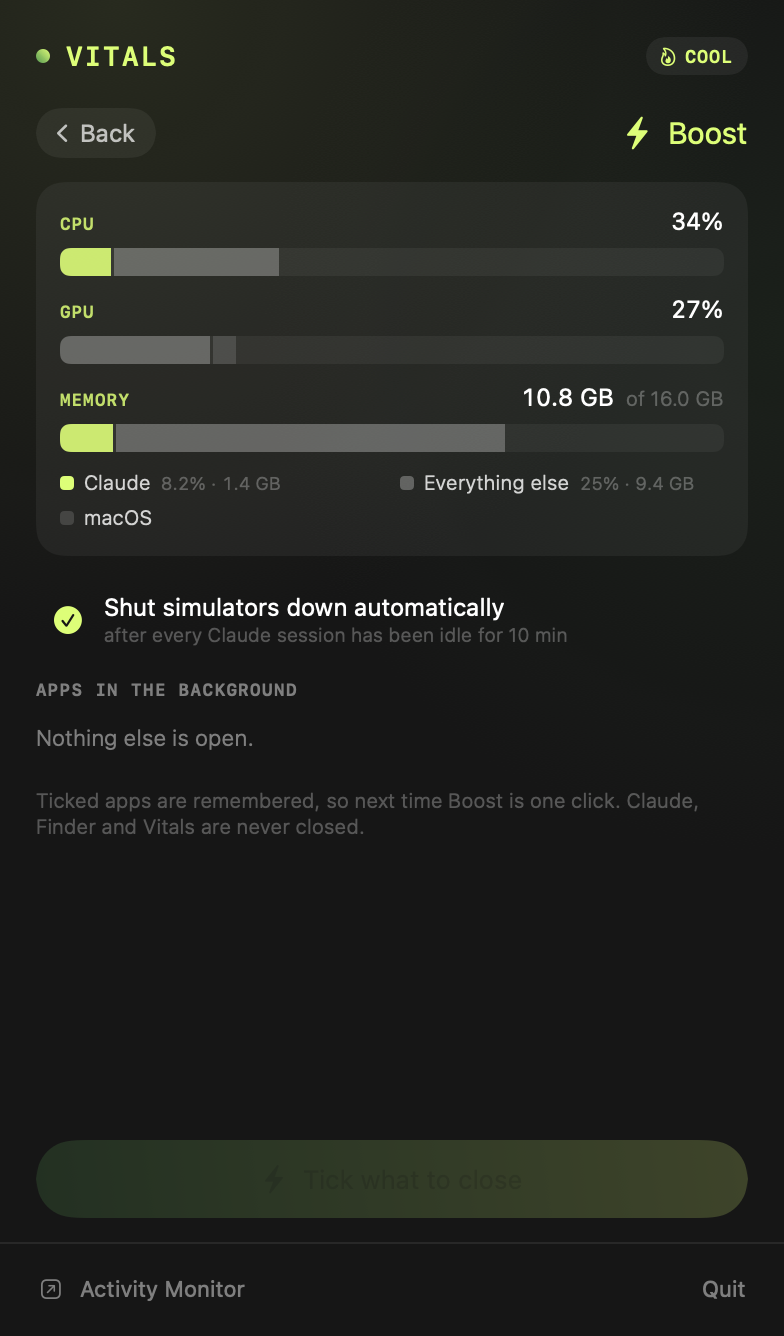
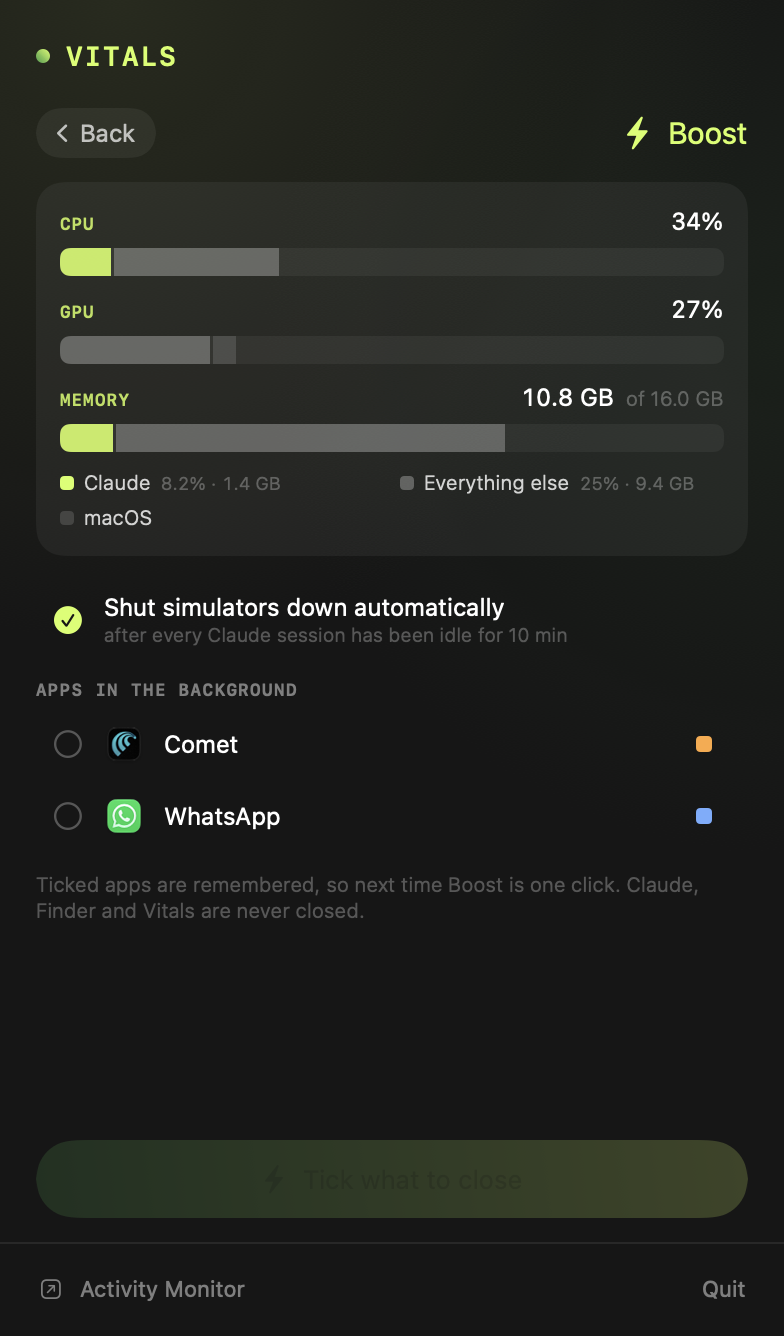
Simpler UI: heat chip only when warm, no load lines, no AI summary card, one General card in Settings, quieter history header

diff --git a/Sources/Vitals/Panel.swift b/Sources/Vitals/Panel.swift
@@ -91,7 +91,10 @@ struct PanelView: View {
                     .help("\(awake.duration): \(awake.reason)")
                     .clickable(radius: 12) { withAnimation { detail = nil; boosting = false; tab = .bar } }
             }
-            Chip(text: thermalText, color: thermalColor, symbol: "flame").clickable(radius: 12) { open(.temp) }
+            if monitor.system.thermalState != .nominal {
+                // Only worth a chip when it isn't cool.
+                Chip(text: thermalText, color: thermalColor, symbol: "flame").clickable(radius: 12) { open(.temp) }
+            }
             if !boosting {
                 Button {
                     withAnimation(.spring(response: 0.35, dampingFraction: 0.88)) { detail = nil; boosting = true }
@@ -343,10 +346,9 @@ struct PanelView: View {
                 ScrollView(.vertical, showsIndicators: false) {
                     let apps = displayedApps
                     let ram = Double(max(1, monitor.system.memory.total))
-                    let top = max(apps.map { $0.load(ram: ram) }.max() ?? 1, 0.0001)
                     VStack(spacing: 2) {
                         ForEach(apps) { app in
-                            AppRow(app: app, share: app.load(ram: ram) / top, ram: ram, refresh: refresh)
+                            AppRow(app: app, ram: ram, refresh: refresh)
                         }
                     }
                     .padding(.horizontal, 10)
@@ -398,9 +400,6 @@ struct PanelView: View {
             } else {
                 ScrollView(.vertical, showsIndicators: false) {
                     VStack(spacing: 6) {
-                        if !sessions.isEmpty {
-                            SessionSummary(sessions: sessions).clickable(radius: 14) { open(.claude) }
-                        }
                         ForEach(AITool.allCases, id: \.self) { tool in
                             let group = sessions.filter { $0.tool == tool }
                             if !group.isEmpty {
@@ -413,9 +412,8 @@ struct PanelView: View {
                         if !apps.isEmpty {
                             sectionTitle("AI APPS", detail: "\(apps.count) open")
                             let ram = Double(max(1, monitor.system.memory.total))
-                            let top = max(apps.map { $0.load(ram: ram) }.max() ?? 1, 0.0001)
                             ForEach(apps) { app in
-                                AppRow(app: app, share: app.load(ram: ram) / top, ram: ram, refresh: refresh)
+                                AppRow(app: app, ram: ram, refresh: refresh)
                             }
                         }
                     }
@@ -825,7 +823,6 @@ extension AppUsage {
 
 struct AppRow: View {
     var app: AppUsage
-    var share: Double
     var ram: Double
     var refresh: () -> Void = {}
     @State private var hovering = false
@@ -890,19 +887,8 @@ struct AppRow: View {
         .padding(.horizontal, 8)
         .padding(.vertical, 6)
         .frame(minHeight: 40)
-        .overlay(alignment: .bottomLeading) {
-            // How much of the load this app is, relative to the heaviest: a slim line under the row.
-            GeometryReader { geo in
-                Capsule()
-                    .fill(LinearGradient(colors: [Theme.green.opacity(0.7), Theme.lime.opacity(0.9)], startPoint: .leading, endPoint: .trailing))
-                    .frame(width: max(2, (geo.size.width - 48) * min(1, share)), height: 2)
-                    .offset(x: 40, y: geo.size.height - 3)
-                    .opacity(0.55)
-            }
-        }
         .background(RoundedRectangle(cornerRadius: 9, style: .continuous).fill(Color.white.opacity(hovering ? 0.06 : 0.025)))
         .onHover { hovering = $0 }
-        .animation(.easeOut(duration: 0.4), value: share)
     }
 
     /// A value in a column: dim when it's nothing, white normally, orange then red as it gets heavy.
@@ -912,32 +898,6 @@ struct AppRow: View {
             .foregroundStyle(heat >= 1 ? Theme.red : heat >= 0.45 ? Theme.orange : heat < 0.02 ? Theme.faint : .white.opacity(0.88))
             .lineLimit(1)
             .frame(width: width, alignment: .trailing)
-    }
-}
-
-struct SessionSummary: View {
-    var sessions: [ClaudeSession]
-    var body: some View {
-        let busy = sessions.filter(\.isBusy).count
-        let cpu = sessions.reduce(0) { $0 + $1.cpu }
-        let memory = sessions.reduce(UInt64(0)) { $0 + $1.memory }
-        let tasks = sessions.reduce(0) { $0 + $1.tasks.filter { !$0.isBackground }.count }
-        HStack(spacing: 0) {
-            stat("\(busy)/\(sessions.count)", "WORKING")
-            stat("\(tasks)", "TASKS")
-            stat(String(format: "%.0f%%", cpu), "CPU")
-            stat(Fmt.bytes(memory), "MEMORY")
-        }
-        .padding(.vertical, 10)
-        .background(RoundedRectangle(cornerRadius: 14, style: .continuous).fill(Theme.card))
-    }
-
-    private func stat(_ value: String, _ label: String) -> some View {
-        VStack(spacing: 2) {
-            Text(value).font(Theme.light(16)).monospacedDigit().foregroundStyle(.white)
-            Text(label).font(Theme.caps(7.5)).kerning(0.6).foregroundStyle(Theme.lime.opacity(0.85))
-        }
-        .frame(maxWidth: .infinity)
     }
 }
 

diff --git a/Sources/Vitals/BarSettings.swift b/Sources/Vitals/BarSettings.swift
@@ -2,7 +2,7 @@ import AppKit
 import SwiftUI
 import UniformTypeIdentifiers
 
-/// Pick what the menu bar shows and how often it updates.
+/// Settings: keep awake, what the menu bar shows, and a few general options.
 struct BarSettings: View {
     @ObservedObject var monitor: Monitor
     @ObservedObject var prefs: Prefs
@@ -20,21 +20,20 @@ struct BarSettings: View {
                     }
                     .background(RoundedRectangle(cornerRadius: 14, style: .continuous).fill(Theme.card))
                 }
-                section("UPDATE EVERY") {
-                    Segments(options: [(1.0, "1 s"), (2.0, "2 s"), (5.0, "5 s")], selection: $prefs.interval)
-                }
-                LoginRow()
-                ExportRow(monitor: monitor)
-                HStack {
-                    VStack(alignment: .leading, spacing: 2) {
-                        Text("Warning colors").font(Theme.regular(12)).foregroundStyle(.white)
-                        Text("Orange or red when hot, full or low").font(Theme.light(10)).foregroundStyle(Theme.faint)
+                section("GENERAL") {
+                    VStack(spacing: 0) {
+                        LoginRow()
+                        divider
+                        row("Warning colors", "Orange or red when hot, full or low") { LimeSwitch(isOn: $prefs.colorAlerts) }
+                        divider
+                        row("Update every", "How often the numbers refresh") {
+                            Segments(options: [(1.0, "1 s"), (2.0, "2 s"), (5.0, "5 s")], selection: $prefs.interval).frame(width: 132)
+                        }
+                        divider
+                        ExportRow(monitor: monitor)
                     }
-                    Spacer()
-                    LimeSwitch(isOn: $prefs.colorAlerts)
+                    .background(RoundedRectangle(cornerRadius: 14, style: .continuous).fill(Theme.card))
                 }
-                .padding(12)
-                .background(RoundedRectangle(cornerRadius: 14, style: .continuous).fill(Theme.card))
             }
             .padding(.horizontal, 14)
             .padding(.bottom, 8)
@@ -45,6 +44,20 @@ struct BarSettings: View {
     private var orderedMetrics: [Metric] {
         (prefs.bar + Metric.allCases.filter { !prefs.bar.contains($0) })
             .filter { $0 != .battery || monitor.system.power.hasBattery }   // desktop Macs have none
+    }
+
+    private var divider: some View { Rectangle().fill(Theme.hairline).frame(height: 1).padding(.leading, 12) }
+
+    private func row<Trailing: View>(_ title: String, _ detail: String, @ViewBuilder trailing: () -> Trailing) -> some View {
+        HStack {
+            VStack(alignment: .leading, spacing: 2) {
+                Text(title).font(Theme.regular(12)).foregroundStyle(.white)
+                Text(detail).font(Theme.light(10)).foregroundStyle(Theme.faint)
+            }
+            Spacer()
+            trailing()
+        }
+        .padding(.horizontal, 12).padding(.vertical, 10)
     }
 
     private func section<Content: View>(_ title: String, @ViewBuilder content: () -> Content) -> some View {
@@ -170,8 +183,7 @@ private struct LoginRow: View {
                 }
             }))
         }
-        .padding(12)
-        .background(RoundedRectangle(cornerRadius: 14, style: .continuous).fill(Theme.card))
+        .padding(.horizontal, 12).padding(.vertical, 10)
         .onAppear {
             DispatchQueue.global(qos: .userInitiated).async {
                 let now = LoginItem.isOn
@@ -188,15 +200,14 @@ private struct ExportRow: View {
     var body: some View {
         HStack {
             VStack(alignment: .leading, spacing: 2) {
-                Text("Export all history").font(Theme.regular(12)).foregroundStyle(.white)
-                Text(saved ?? "CSV for Numbers, Excel or Sheets: every hour, minute and sample kept")
+                Text("Export history").font(Theme.regular(12)).foregroundStyle(.white)
+                Text(saved ?? "Everything Vitals has kept, as a CSV file")
                     .font(Theme.light(10)).foregroundStyle(saved == nil ? Theme.faint : Theme.lime.opacity(0.85)).lineLimit(1)
             }
             Spacer()
             QuietButton(title: "Export…", symbol: "square.and.arrow.up", size: 11) { export() }
         }
-        .padding(12)
-        .background(RoundedRectangle(cornerRadius: 14, style: .continuous).fill(Theme.card))
+        .padding(.horizontal, 12).padding(.vertical, 10)
     }
 
     private func export() {

diff --git a/docs/live.js b/docs/live.js
@@ -356,6 +356,7 @@
         q(`[data-ms="${k}"]`).setAttribute('d', sparkPath(minis[k][1], 100, 12));
       }
       q('[data-thermal]').textContent = sim.temp > 85 ? 'HOT' : sim.temp > 70 ? 'WARM' : 'COOL';
+      q('[data-thermal]').parentElement.style.display = sim.temp > 70 ? '' : 'none';   // like the app: only when it isn't cool
       const charging = this.fullOnce || this.limit === 100;
       q('[data-held]').textContent = charging ? (this.fullOnce ? 'charging to 100%' : 'charges to 100%') : 'held at ' + this.limit + '%';
       // tabs
@@ -428,7 +429,6 @@
       const sig = sessions.map(s => s.id + s.stopped + s.tasks.map(t => t.cmd).join()).join('|');
       const scroll = box.scrollTop;
       box.innerHTML = `
-        <div class="vp-sum">${[[working + '/' + sessions.length, 'Working'], [tasks, 'Tasks'], [Math.round(cpu) + '%', 'CPU'], [gbs(sessions.reduce((n, s) => n + s.mem, 0)), 'Memory']].map(([v, l]) => `<div><b class="num">${v}</b><span class="caps">${l}</span></div>`).join('')}</div>
         ${groups.map(g => { const list = sessions.filter(s => s.tool === g); return `<div class="vp-sect"><span class="caps" style="color:rgba(213,255,95,.8)">${esc(g)}</span><span>${list.filter(busy).length} of ${list.length} working</span></div>${list.map(card).join('')}`; }).join('')}
         <div class="vp-sect"><span class="caps" style="color:rgba(213,255,95,.8)">AI apps</span><span>2 open</span></div>
         ${sim.apps.filter(a => a.aiApp).map(a => `<div class="vp-card2" style="display:flex;align-items:center;gap:10px"><div class="ic" style="width:20px;height:20px;border-radius:6px;display:grid;place-items:center;font-size:10px;background:linear-gradient(160deg,${a.ic[0]},${a.ic[1]})">${a.g}</div><b style="flex:1;font-weight:400">${a.name}</b><span class="met num">${pct(a.cpu)}&nbsp;&nbsp;${gbs(a.mem)}</span></div>`).join('')}`;

diff --git a/Sources/Vitals/DetailView.swift b/Sources/Vitals/DetailView.swift
@@ -148,7 +148,7 @@ struct DetailView: View {
             Spacer()
             VStack(alignment: .trailing, spacing: 2) {
                 Text(hover == nil ? "LIVE" : "AT").font(Theme.caps(7.5)).kerning(0.6).foregroundStyle(Theme.lime.opacity(0.8))
-                Text(hover.map { timeLabel($0.t) } ?? "hover the chart").font(Theme.light(11)).foregroundStyle(Theme.dim)
+                Text(hover.map { timeLabel($0.t) } ?? "").font(Theme.light(11)).foregroundStyle(Theme.dim)
                 if let users = hover.flatMap(topAt), let first = users.first {
                     Text("\(first.n) \(spec.formatTop(first.v))")
                         .font(Theme.light(10)).foregroundStyle(.white.opacity(0.75)).lineLimit(1)

diff --git a/Sources/Vitals/main.swift b/Sources/Vitals/main.swift
@@ -94,6 +94,8 @@ if let i = args.firstIndex(of: "--snapshot"), i + 1 < args.count {
         save(PanelView(monitor: monitor, prefs: prefs, tab: tab), "panel-\(tab.rawValue)")
     }
         save(PanelView(monitor: monitor, prefs: prefs, boosting: true), "panel-boost")
+    // The whole Settings tab, unscrolled, to check everything below the fold.
+    save(BarSettings(monitor: monitor, prefs: prefs).frame(width: 392, height: 900).background(Theme.base).preferredColorScheme(.dark), "settings-full")
     for metric in [Metric.cpu, .temp, .net, .claude, .battery] {
         save(PanelView(monitor: monitor, prefs: prefs, detail: metric), "detail-\(metric.rawValue)")
     }

diff --git a/docs/live.css b/docs/live.css
@@ -193,3 +193,6 @@
 .vp[data-focus="list"] [data-zone="list"] { opacity: 1; filter: none; }
 .vp[data-focus="live"] [data-zone="live"] { box-shadow: 0 0 0 1.5px rgba(213,255,95,.55), 0 0 46px -8px rgba(213,255,95,.45); }
 .vp[data-focus="list"] .vp-pane[data-zone="list"] { border-radius: 14px; box-shadow: inset 0 0 0 1.5px rgba(213,255,95,.4); margin-left: 4px; margin-right: 4px; }
+
+/* Like the app: no load line under each row. */
+.vp-row .load { display: none; }
